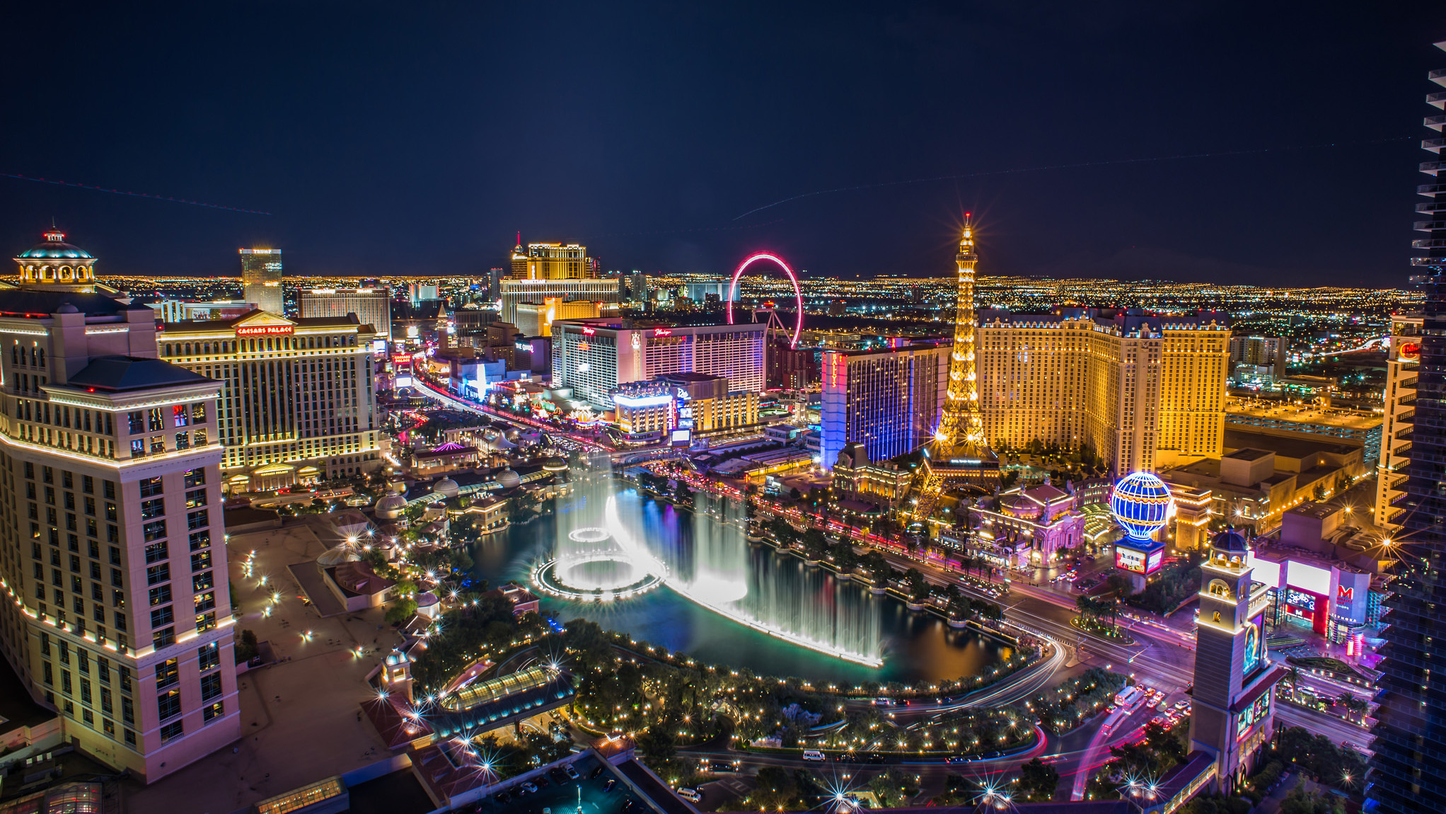
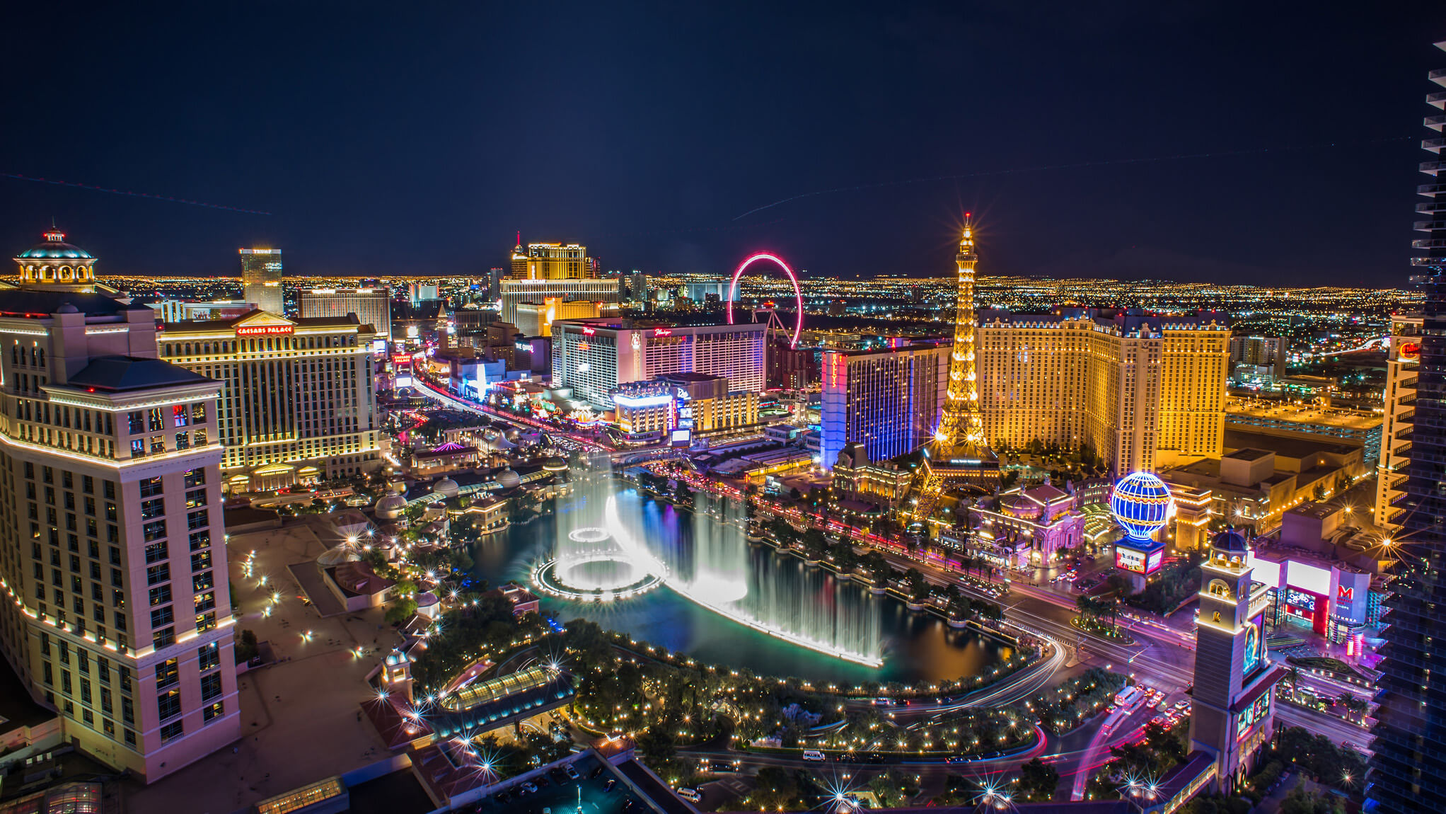
compress vegas image

diff --git a/app/assets/stylesheets/application.scss b/app/assets/stylesheets/application.scss
@@ -32,7 +32,7 @@
    background:linear-gradient(
         rgba(0,0,0,0.7),
         rgba(0,0,0,0.7)
-        ),image-url("opvegas.jpg")no-repeat center center fixed;
+        ),image-url("vegas.jpg")no-repeat center center fixed;
     background-size:cover;
     height:100vh;
     vertical-align: middle;
